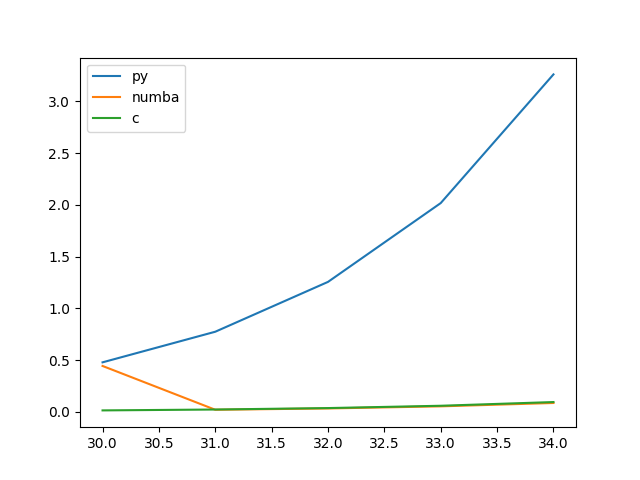
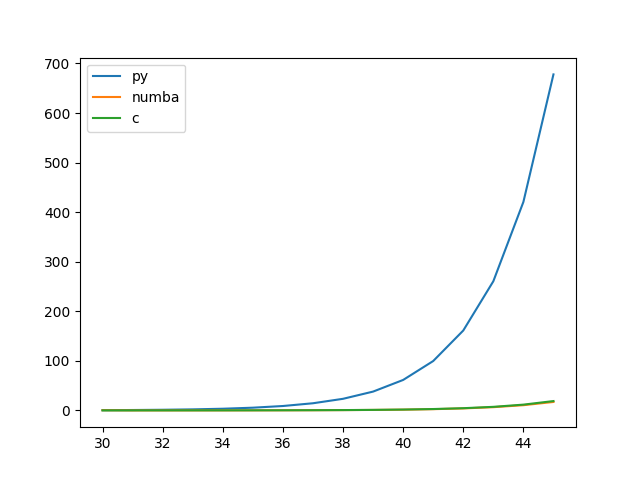
f

diff --git a/MA4_Files/MA4_2.py b/MA4_Files/MA4_2.py
@@ -8,7 +8,7 @@ def main():
 	py = []
 	num = []
 	c = []
-	for i in range(30, 35):
+	for i in range(30, 46):
 		start = pc()
 		fib_py(i)
 		end = pc()
@@ -21,14 +21,14 @@ def main():
 		num.append(end2-end)
 		c.append(end3-end2)
 		print(i)
-	x = list(range(30,35))
+	x = list(range(30,46))
 	plt.plot(x,py,label='py')
 	plt.plot(x,num,label='numba')
 	plt.plot(x,c,label='c')
 	plt.legend()	
 	plt.savefig('time.png')
-	print(fib2_py(41))
-	ff = Person(41)
+	print(fib2_py(47))
+	ff = Person(47)
 	print(ff.fib())
 	
 def fib_py(n):
